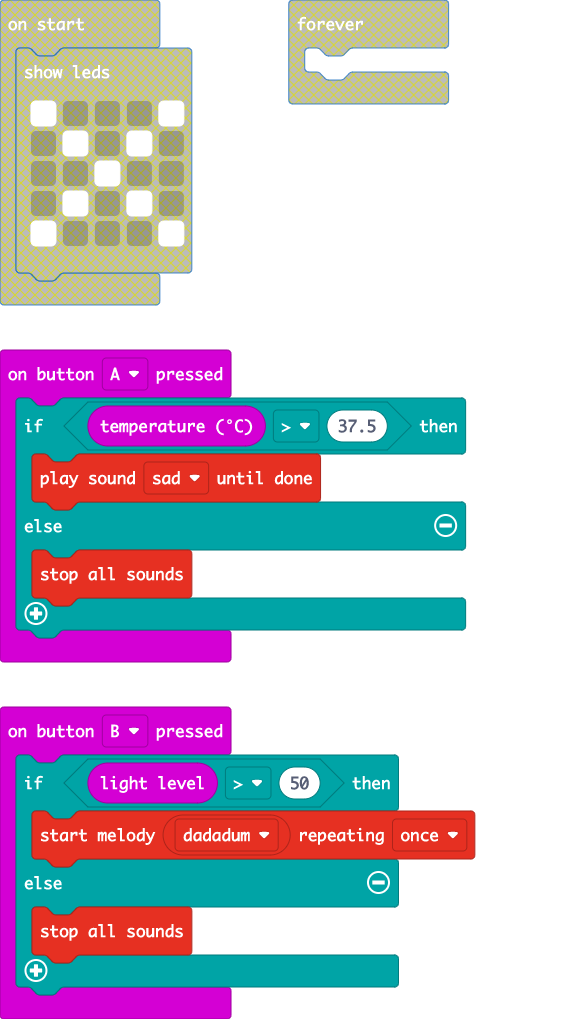
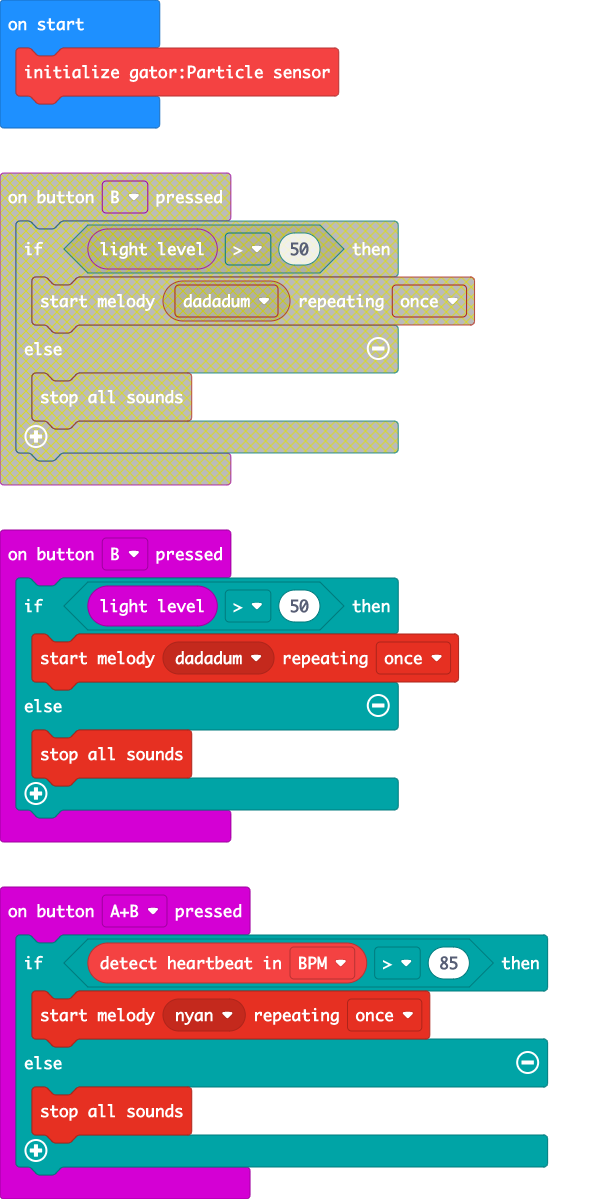
Added heartbeat sensors

diff --git a/main.ts b/main.ts
@@ -5,6 +5,13 @@ input.onButtonPressed(Button.A, function () {
         music.stopAllSounds()
     }
 })
+input.onButtonPressed(Button.AB, function () {
+    if (gatorParticle.heartbeat(HeartbeatType.BPM) > 85) {
+        music.startMelody(music.builtInMelody(Melodies.Nyan), MelodyOptions.Once)
+    } else {
+        music.stopAllSounds()
+    }
+})
 input.onButtonPressed(Button.B, function () {
     if (input.lightLevel() > 50) {
         music.startMelody(music.builtInMelody(Melodies.Dadadadum), MelodyOptions.Once)
@@ -12,3 +19,4 @@ input.onButtonPressed(Button.B, function () {
         music.stopAllSounds()
     }
 })
+gatorParticle.begin()

diff --git a/main.py b/main.py
@@ -1,3 +1,23 @@
-def on_forever():
-    pass
-basic.forever(on_forever)
+def on_button_pressed_a():
+    if input.temperature() > 37.5:
+        soundExpression.sad.play_until_done()
+    else:
+        music.stop_all_sounds()
+input.on_button_pressed(Button.A, on_button_pressed_a)
+
+def on_button_pressed_ab():
+    if gatorParticle.heartbeat(HeartbeatType.BPM) > 85:
+        music.start_melody(music.built_in_melody(Melodies.NYAN), MelodyOptions.ONCE)
+    else:
+        pass
+input.on_button_pressed(Button.AB, on_button_pressed_ab)
+
+def on_button_pressed_b():
+    if input.light_level() > 50:
+        music.start_melody(music.built_in_melody(Melodies.DADADADUM),
+            MelodyOptions.ONCE)
+    else:
+        music.stop_all_sounds()
+input.on_button_pressed(Button.B, on_button_pressed_b)
+
+gatorParticle.begin()
